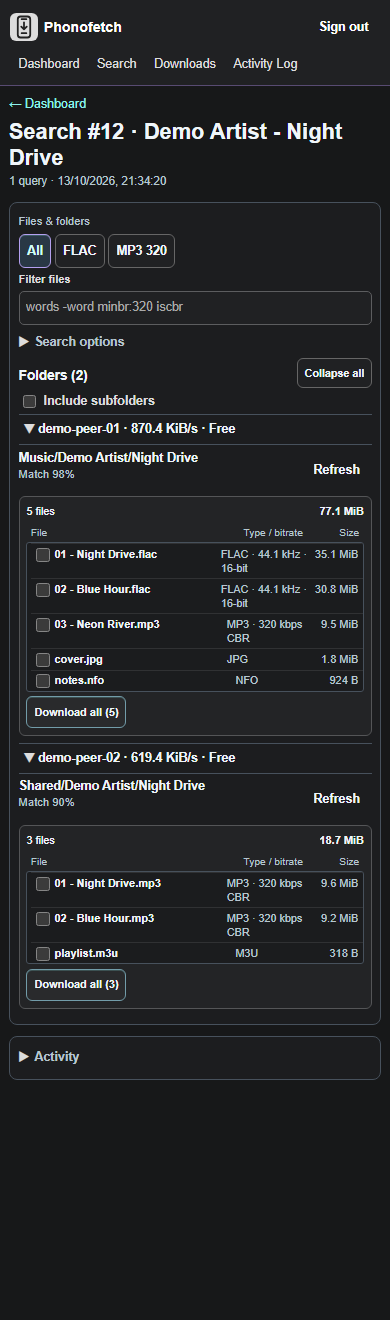
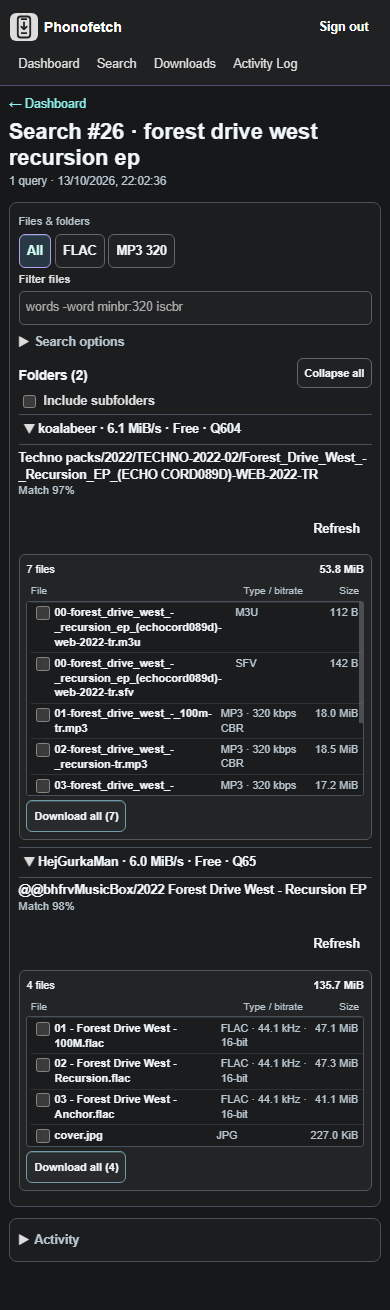
Use real music screenshots and artwork in README
Replace synthetic gallery with provided desktop captures and phone-width recreations, and simplify the introduction and feature copy.

diff --git a/README.md b/README.md
@@ -1,35 +1,23 @@
 # Phonofetch
 
-**Find it on your phone. Download it on your NAS.**
+![Iridescent Phonofetch artwork](./docs/phonofetch-banner.png)
 
-Phonofetch is a web interface for your **existing slskd** instance. Search Soulseek, look inside a peer's folder, and pick exactly what you want. The transfers keep running on your server after you close the page.
+Phonofetch is a self-hosted Soulseek search and download interface for an **existing slskd** instance. Search across peers, inspect folders, choose files and follow transfers from a desktop or phone. slskd and your downloads stay on your server.
 
-![Phonofetch search results with folders, file filters and download controls](./docs/search-results-demo.png)
+## Screenshots
 
-*Screenshots use made-up music, peers and transfers.*
+**Search:** inspect a folder before downloading, or filter the results to find specific files.
 
-## Why Phonofetch?
+![Phonofetch search results for Forest Drive West's Recursion EP](./docs/search-results-demo.png)
 
-- **Browse before you queue.** Search across peers, filter results, and inspect the rest of a folder.
-- **Pick the actual files.** Grab one track, a handful of files, or the whole folder, including covers, playlists and NFOs. Automatic track or album downloading is opt-in.
-- **Keep tabs on downloads.** See progress, retry failed files and revisit past searches without sitting at your desktop.
-- **Keep it yours.** slskd, downloads and Phonofetch's SQLite database stay on your own machine.
+**Downloads:** see transfers by peer and folder, with per-file status and controls.
 
-## A quick look
+![Phonofetch downloads showing Forest Drive West and Ex-Terrestrial](./docs/downloads-demo.png)
 
-The **Dashboard** puts a new search, recent downloads and activity in one place.
-
-![Phonofetch desktop dashboard with new search and recent downloads](./docs/dashboard-demo.png)
-
-**Downloads** groups transfers by peer and folder, with progress and per-file controls.
-
-![Phonofetch desktop downloads view with transfer progress](./docs/downloads-demo.png)
-
-The same workflow fits a phone: start from the dashboard, then inspect folders and select files in Search.
-
+**Mobile:** the same Search and Downloads views at phone width, recreated with the music shown in the desktop screenshots.
 <p>
-  <a href="./docs/mobile-dashboard-demo.png"><img src="./docs/mobile-dashboard-demo.png" width="280" alt="Phonofetch mobile dashboard with search and recent downloads"></a>
-  <a href="./docs/mobile-search-demo.png"><img src="./docs/mobile-search-demo.png" width="280" alt="Phonofetch mobile search results with selectable files and folders"></a>
+  <a href="./docs/mobile-search-demo.png"><img src="./docs/mobile-search-demo.png" width="280" alt="Mobile search results for Forest Drive West with MP3 and FLAC folders"></a>
+  <a href="./docs/mobile-downloads-demo.png"><img src="./docs/mobile-downloads-demo.png" width="280" alt="Mobile downloads showing completed Forest Drive West and Ex-Terrestrial tracks"></a>
 </p>
 
 ## Deploy
@@ -86,6 +74,6 @@ The tunnel needs no router port forward. To use a path on a separate homepage, r
 ## Good to know
 
 - Manual selection accepts any valid-size file, even non-audio extras; the FLAC/MP3 filters change what you *see*. Strict audio quality rules apply only to optional automatic downloads. Folder selection is bounded by `MAX_FOLDER_FILES` and `MAX_FOLDER_BYTES` in `.env`.
-- On iPhone, open the HTTPS app in Safari, sign in, then use **Share → Add to Home Screen**. If an older shortcut still shows the previous icon, remove it and add it again.
+- On iPhone, open the HTTPS app in Safari, sign in, then use **Share → Add to Home Screen**.
 
-Made by [AMBIENTCORE](https://github.com/AMBIENTCORE). [MIT licensed](./LICENSE). Found a bug or have an idea? [Open an issue](https://github.com/AMBIENTCORE/Phonofetch/issues).
+[AMBIENTCORE](https://github.com/AMBIENTCORE) · [MIT License](./LICENSE) · [Issues](https://github.com/AMBIENTCORE/Phonofetch/issues)
